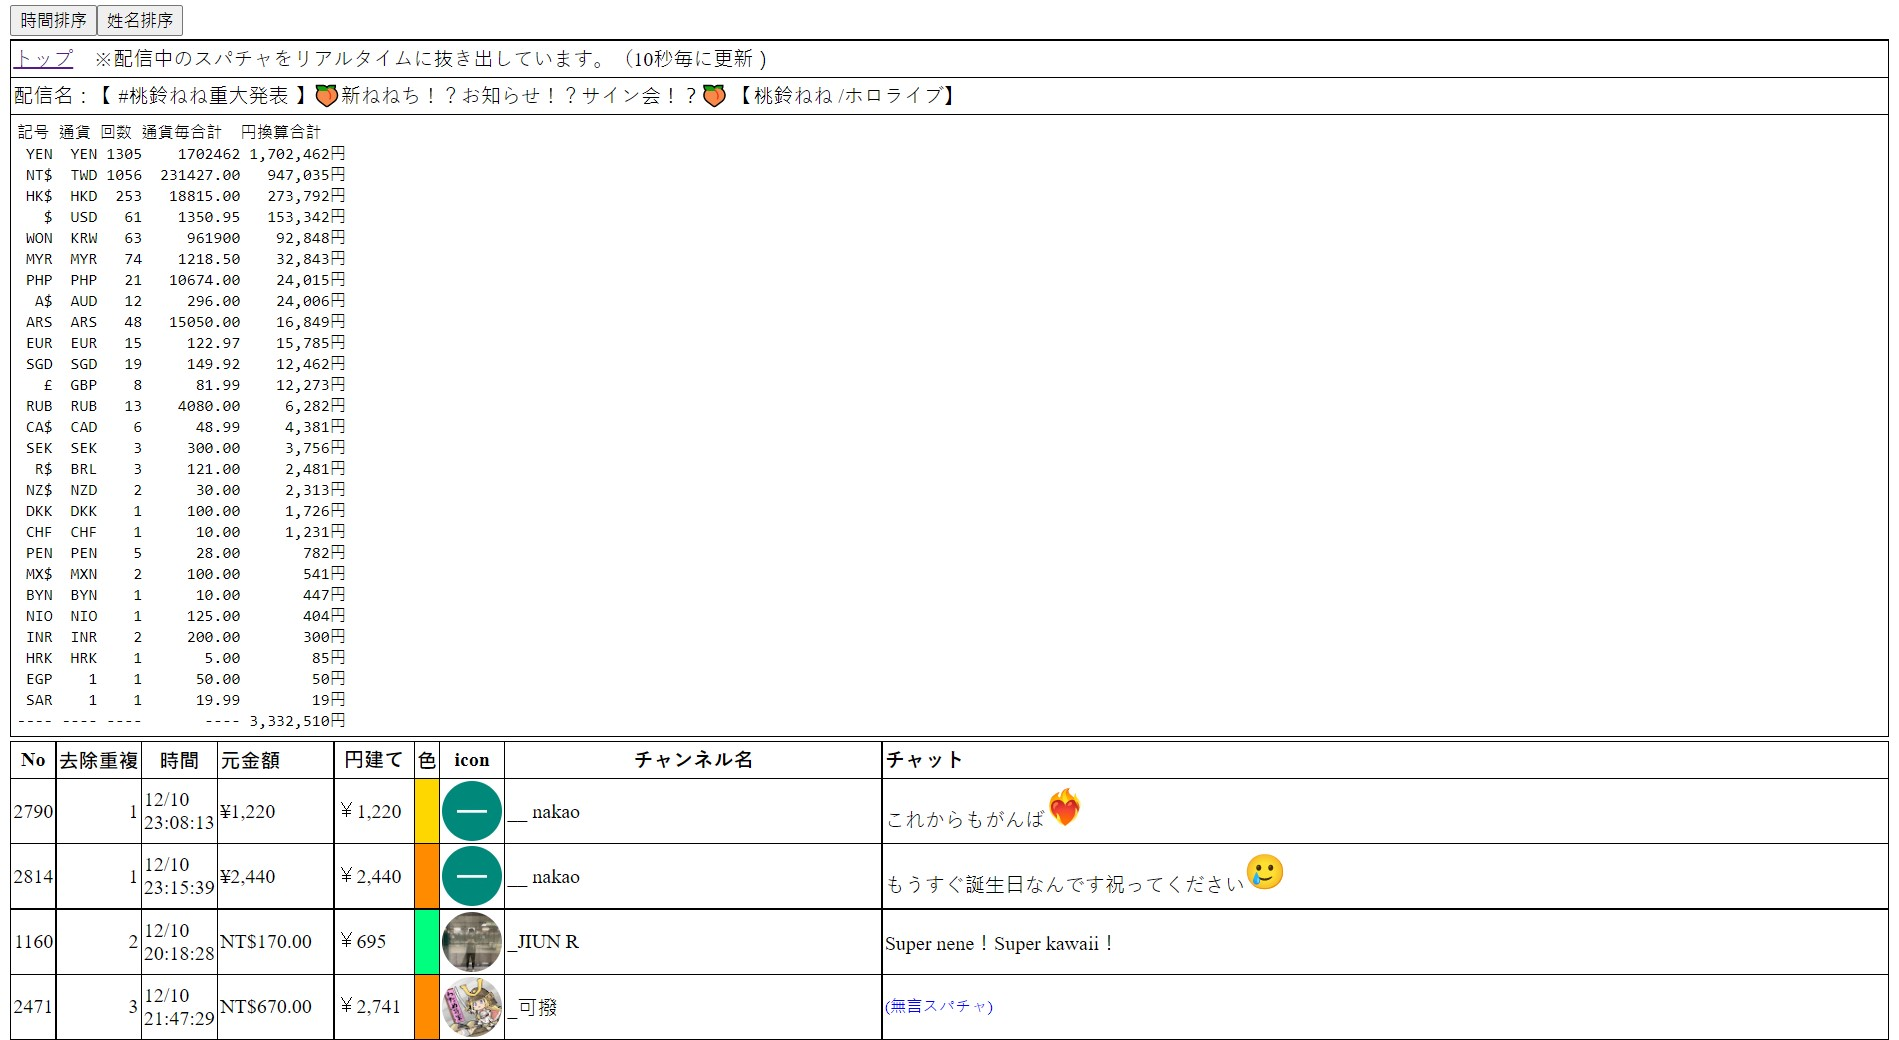
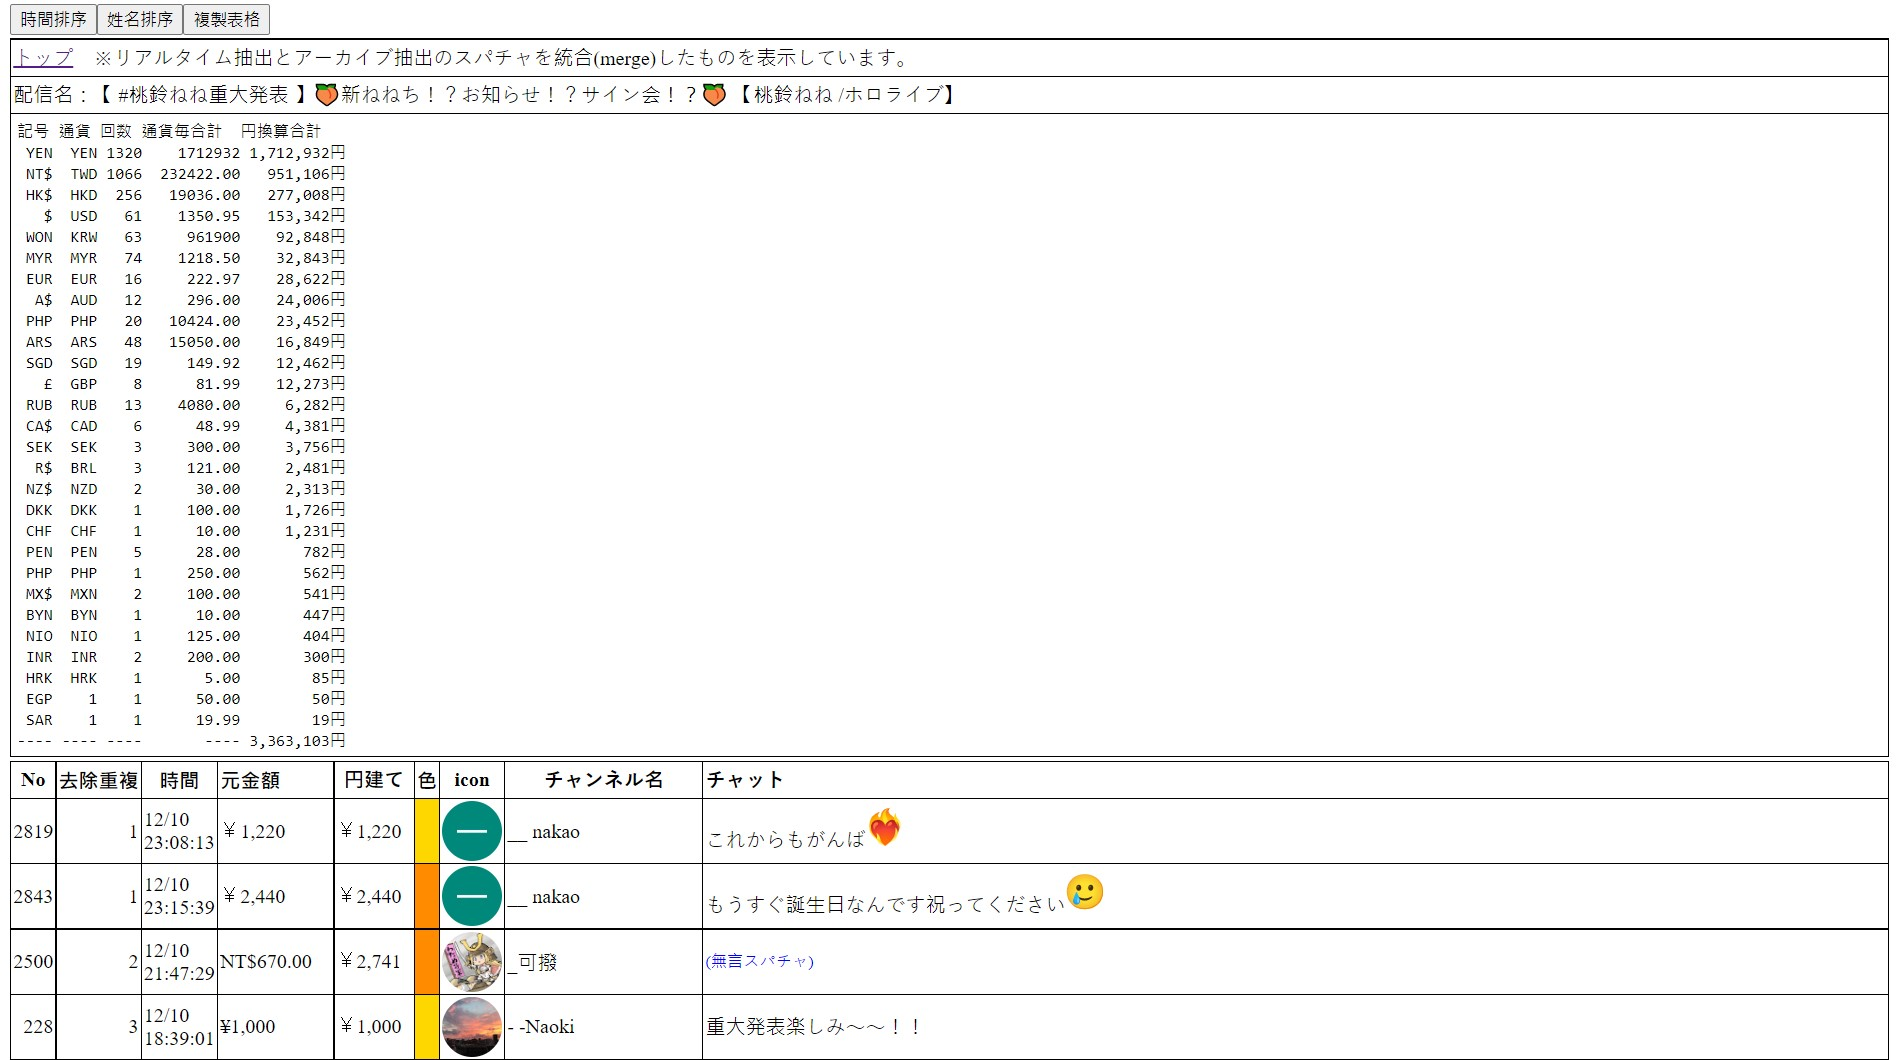
Update to v0.2.

diff --git a/hololyzer-sort-tool/script.js b/hololyzer-sort-tool/script.js
@@ -4,7 +4,7 @@
 // @name:zh-TW         hololyzer 排序工具
 // @name:zh-CN         hololyzer 排序工具
 // @namespace          https://github.com/kevin823lin
-// @version            0.1
+// @version            0.2
 // @description        Add support for sort hololyzer's super chat list by name.
 // @description:zh     讓 hololyzer 的超級留言清單支援按姓名排序
 // @description:zh-TW  讓 hololyzer 的超級留言清單支援按姓名排序
@@ -13,46 +13,53 @@
 // @match              https://www.hololyzer.net/*/superchat/*
 // @icon               https://www.google.com/s2/favicons?domain=hololyzer.net
 // @grant              none
-// @date               2021-12-11
+// @run-at             document-start
+// @date               2021-12-13
 // ==/UserScript==
 
 (function () {
     'use strict';
 
     // Your code here...
-    window.addEventListener('load', function (event) {
+    window.addEventListener('DOMContentLoaded', function (event) {
         document.body.dataset.sortBy = "time";
         insertButton();
     }, false);
 
     function insertButton() {
-        const sortByTime = document.createElement('button');
-        const sortByName = document.createElement('button');
-        sortByTime.innerHTML = "時間排序";
-        sortByName.innerHTML = "姓名排序";
-        sortByTime.addEventListener("click", function () {
+        const sortByTimeBtn = document.createElement('button');
+        const sortByNameBtn = document.createElement('button');
+        const copyTableBtn = document.createElement('button');
+        sortByTimeBtn.innerText = "時間排序";
+        sortByNameBtn.innerText = "姓名排序";
+        copyTableBtn.innerText = "複製表格";
+        sortByTimeBtn.addEventListener("click", function () {
             if (document.body.dataset.sortBy !== "time") {
                 window.location.href = window.location.href;
             }
         });
-        sortByName.addEventListener("click", async function () {
+        sortByNameBtn.addEventListener("click", async function () {
             if ((document.body.dataset.sortBy) !== "name") {
                 document.body.dataset.sortBy = "name";
                 await waitElementsLoaded('table[border]');
                 main();
             }
         });
-        document.body.insertAdjacentElement('afterbegin', sortByName);
-        document.body.insertAdjacentElement('afterbegin', sortByTime);
+        copyTableBtn.addEventListener("click", function () {
+            copyTable();
+        });
+        document.body.insertAdjacentElement('afterbegin', copyTableBtn);
+        document.body.insertAdjacentElement('afterbegin', sortByNameBtn);
+        document.body.insertAdjacentElement('afterbegin', sortByTimeBtn);
     }
 
     function main() {
-        move();
-        sort();
-        insert();
+        moveYenCol();
+        sortByName();
+        insertRemoveDuplicatesCol();
     }
 
-    function move() {
+    function moveYenCol() {
         const tbody = document.querySelector('table[border] > tbody');
         const trs = tbody.querySelectorAll("tr");
         const insertIndex = [...tbody.querySelectorAll("th")].findIndex(th => th.matches('[style]'));
@@ -70,7 +77,7 @@
         })
     }
 
-    function sort() {
+    function sortByName() {
         const tbody = document.querySelector('table[border] > tbody');
         const trs = [...tbody.querySelectorAll("tr")].filter(tr => {
             return tr.querySelector('td');
@@ -90,7 +97,7 @@
         }
     }
 
-    function insert() {
+    function insertRemoveDuplicatesCol() {
         const tbody = document.querySelector('table[border] > tbody');
         const trs = [...tbody.querySelectorAll("tr")].filter(tr => {
             return tr.querySelector('td');
@@ -114,15 +121,40 @@
         }
         for (const [i, tr] of trs.entries()) {
             const insertEle = tr.insertCell(insertIndex + 1);
-            insertEle.innerHTML = countList[i];
+            insertEle.innerText = countList[i];
             insertEle.style = "text-align: right";
         }
         const parentEle = tbody.querySelector("tr");
         const childrenEle = parentEle.children[insertIndex + 1];
         const insertEle = document.createElement("th");
-        insertEle.innerHTML = "去除重複";
+        insertEle.innerText = "去除重複";
         insertEle.style = "white-space: nowrap;";
         parentEle.insertBefore(insertEle, childrenEle);
+    }
+
+    function copyTable() {
+        copyElement(document.querySelector('table[border] > tbody'));
+    }
+
+    function copyElement(ele) {
+        if (document.createRange && window.getSelection) {
+            const sel = window.getSelection();
+            const oldRange = Array.apply(null, new Array(sel.rangeCount)).map((a, i) => sel.getRangeAt(i));
+            const copyRange = document.createRange();
+            sel.removeAllRanges();
+            try {
+                copyRange.selectNode(ele);
+                sel.addRange(copyRange);
+            } catch (e) {
+                copyRange.selectNodeContents(ele);
+                sel.addRange(copyRange);
+            }
+            document.execCommand("copy");
+            sel.removeAllRanges();
+            oldRange.forEach(range => { sel.addRange(range) });
+        } else {
+            alert("複製失敗");
+        }
     }
 
     function waitElementsLoaded(...eles) {

diff --git a/hololyzer-sort-tool.user.js b/hololyzer-sort-tool.user.js
@@ -4,7 +4,7 @@
 // @name:zh-TW         hololyzer 排序工具
 // @name:zh-CN         hololyzer 排序工具
 // @namespace          https://github.com/kevin823lin
-// @version            0.1
+// @version            0.2
 // @description        Add support for sort hololyzer's super chat list by name.
 // @description:zh     讓 hololyzer 的超級留言清單支援按姓名排序
 // @description:zh-TW  讓 hololyzer 的超級留言清單支援按姓名排序
@@ -14,7 +14,7 @@
 // @icon               https://www.google.com/s2/favicons?domain=hololyzer.net
 // @grant              none
 // @run-at             document-start
-// @date               2021-12-11
+// @date               2021-12-13
 // ==/UserScript==
 
 (function () {
